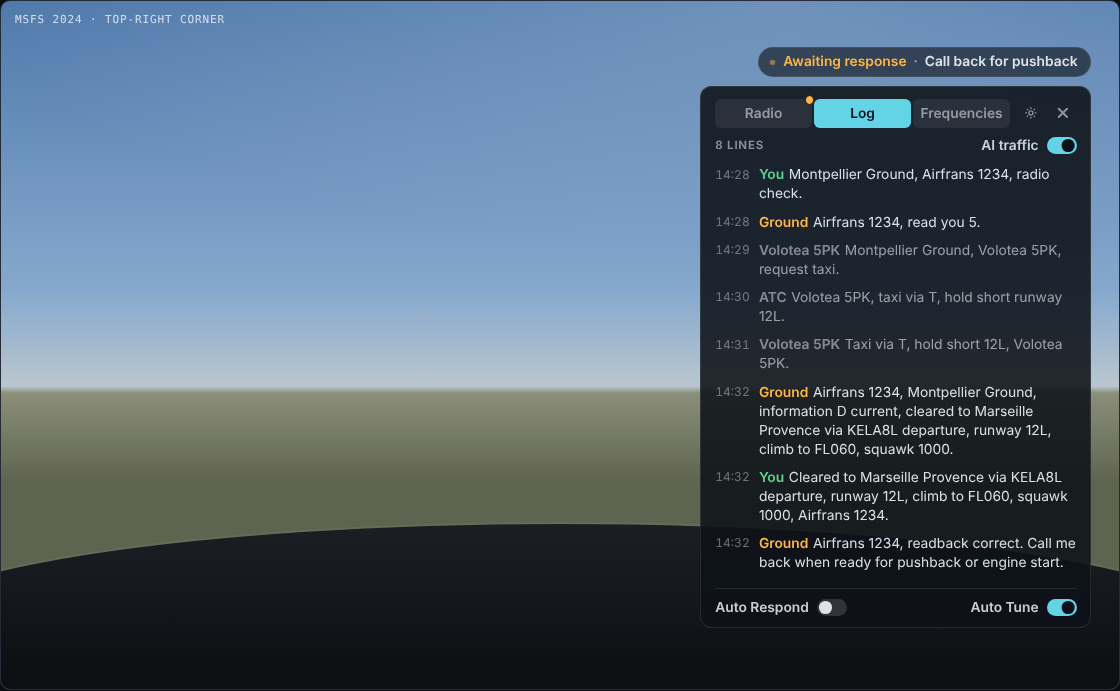
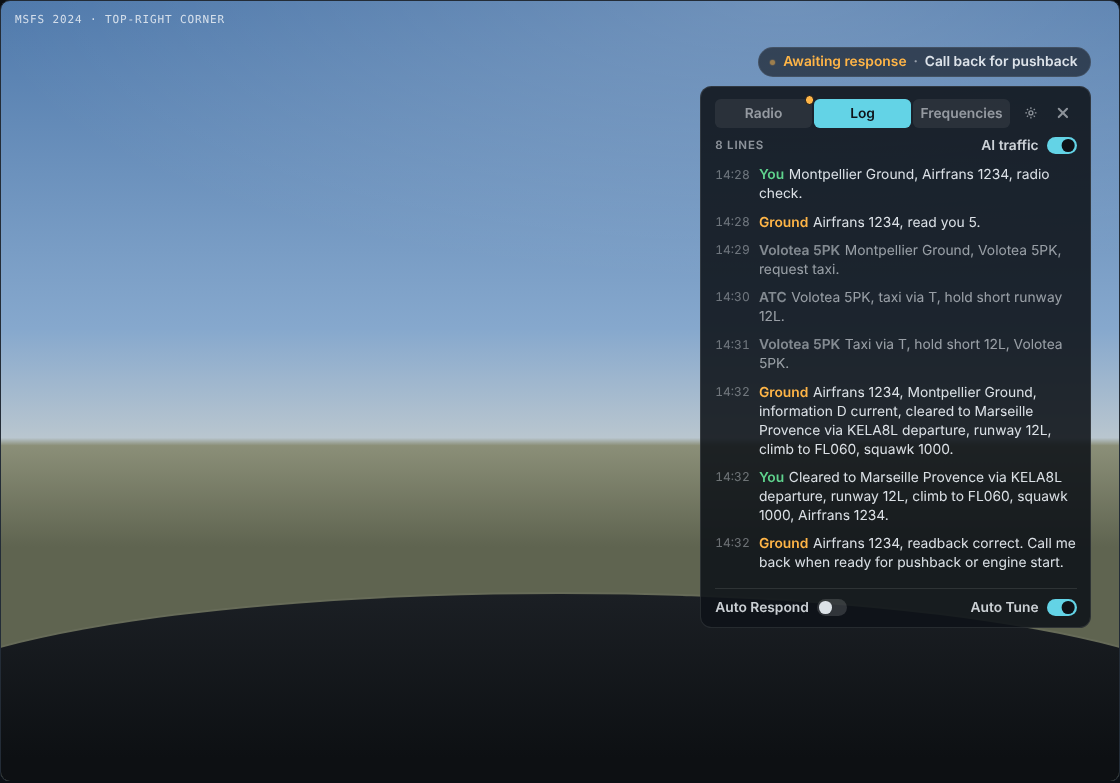
Comms panel prototype: ATC captions and the pending box without station or status
Claude-Session: https://claude.ai/code/session_011LN9CTVBNwSmQpMFQ4kvWt

diff --git a/docs/design/comms-panel.html b/docs/design/comms-panel.html
@@ -137,7 +137,6 @@
   .cap.atc .w { color: #ffb547; } .cap.you .w { color: #5fd38d; } .cap.traffic .w { color: rgba(236,241,246,0.5); }
   .cap.traffic { color: rgba(236,241,246,0.7); background: rgba(14,18,24,0.55); }
   .cap.pinned { border-color: rgba(255,181,71,0.7); }
-  .cap.pinned .w::after { content: " · awaiting your reply"; color: rgba(236,241,246,0.55); text-transform: none; letter-spacing: 0; font-weight: 500; }
 
   /* comms panel: non-modal, under the pill (the pill stays live as its title) */
   .panel {
@@ -677,13 +676,17 @@
   }
 
   // ---------- captions ----------
+  // ATC lines go bare: the pill above already names the station and the state
+  function capText(c) {
+    return (c.who === "atc" ? "" : '<span class="w">' + esc(c.label) + "</span>") + esc(c.text);
+  }
   function renderCaps() {
     var now = Date.now();
     S.caps = S.caps.filter(function (c) { return c.pinned || now - c.born < (c.who === "traffic" ? 6500 : 9500); });
     var html = S.caps.map(function (c) {
       var fading = !c.pinned && now - c.born > (c.who === "traffic" ? 6000 : 9000);
-      return '<div class="cap ' + c.who + (c.pinned ? " pinned" : "") + (fading ? " gone" : "") + '" data-id="' + c.id + '"><span class="w">' +
-        esc(c.label) + "</span>" + esc(c.text) + "</div>";
+      return '<div class="cap ' + c.who + (c.pinned ? " pinned" : "") + (fading ? " gone" : "") + '" data-id="' + c.id + '">' +
+        capText(c) + "</div>";
     }).join("");
     if (capsEl.getAttribute("data-sig") !== html) {
       // keep existing nodes so only new captions animate in
@@ -697,7 +700,7 @@
         var now2 = Date.now(), fading = !c.pinned && now2 - c.born > (c.who === "traffic" ? 6000 : 9000);
         n.className = "cap " + c.who + (c.pinned ? " pinned" : "") + (fading ? " gone" : "");
         n.setAttribute("data-id", c.id);
-        n.innerHTML = '<span class="w">' + esc(c.label) + "</span>" + esc(c.text);
+        n.innerHTML = capText(c);
         frag.appendChild(n);
       });
       capsEl.innerHTML = "";
@@ -724,9 +727,8 @@
   function radioTab() {
     var p = S.pending, h = "";
     if (p) {
-      h += '<div class="await"><div class="head"><span class="lamp"></span>' +
-        (p.kind === "readback" ? "Read back" : p.kind === "question" ? "Answer" : "Acknowledge") +
-        (p.calls > 1 ? " · called ×" + p.calls : "") + '</div><div class="txt">' + esc(p.text) + "</div>";
+      // no status line: the pill right above says it
+      h += '<div class="await"><div class="txt">' + esc(p.text) + "</div>";
       if (p.boxes) h += '<div class="boxes">' + p.boxes.map(function (b) { return "<div class=\"box\"><b>" + esc(b.t) + "</b><span>" + esc(b.v) + "</span></div>"; }).join("") + "</div>";
       h += '<div class="replies">' + p.replies.map(function (r, i) {
         var q = /^(say again|cancel\b)/i.test(r);
